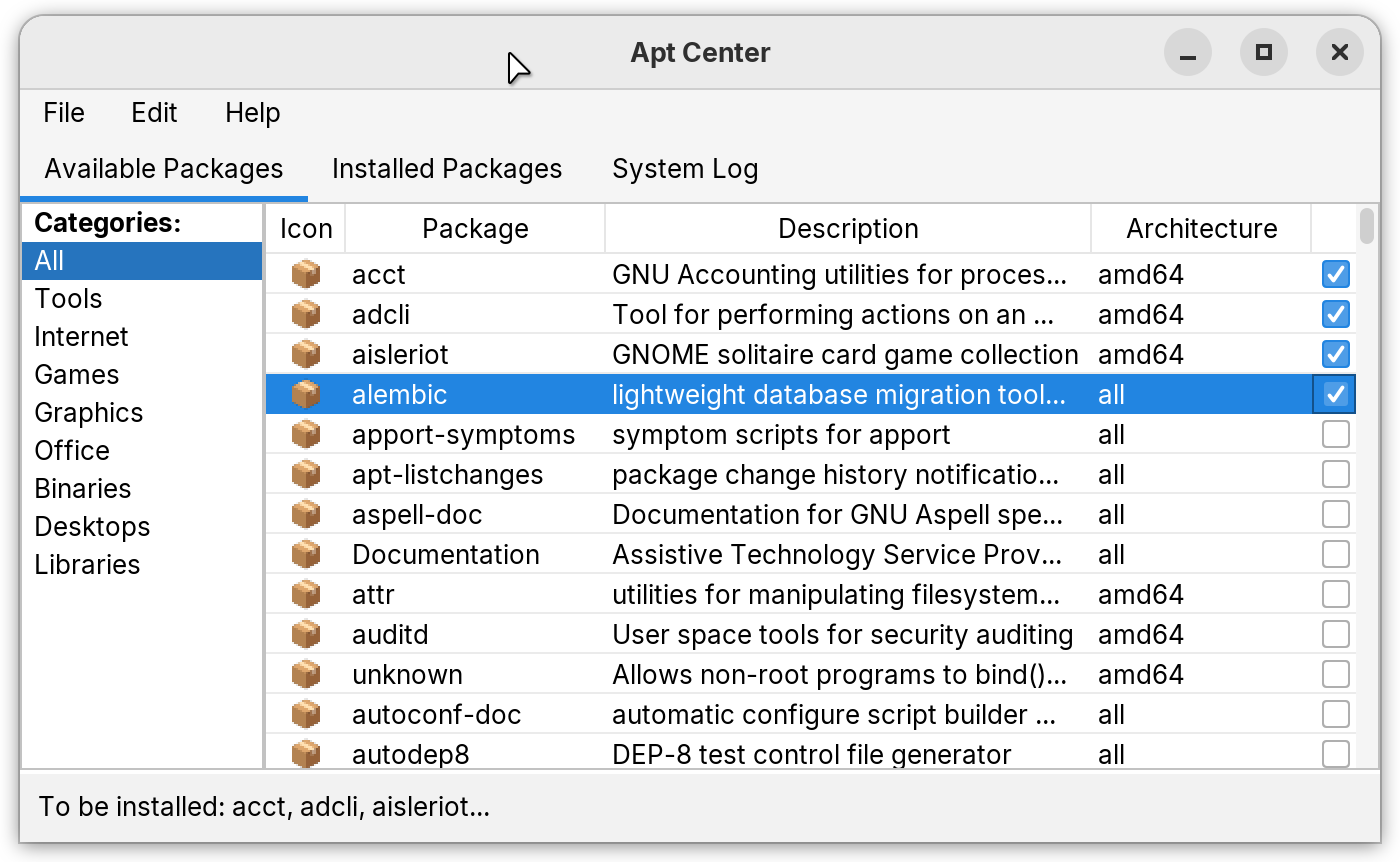
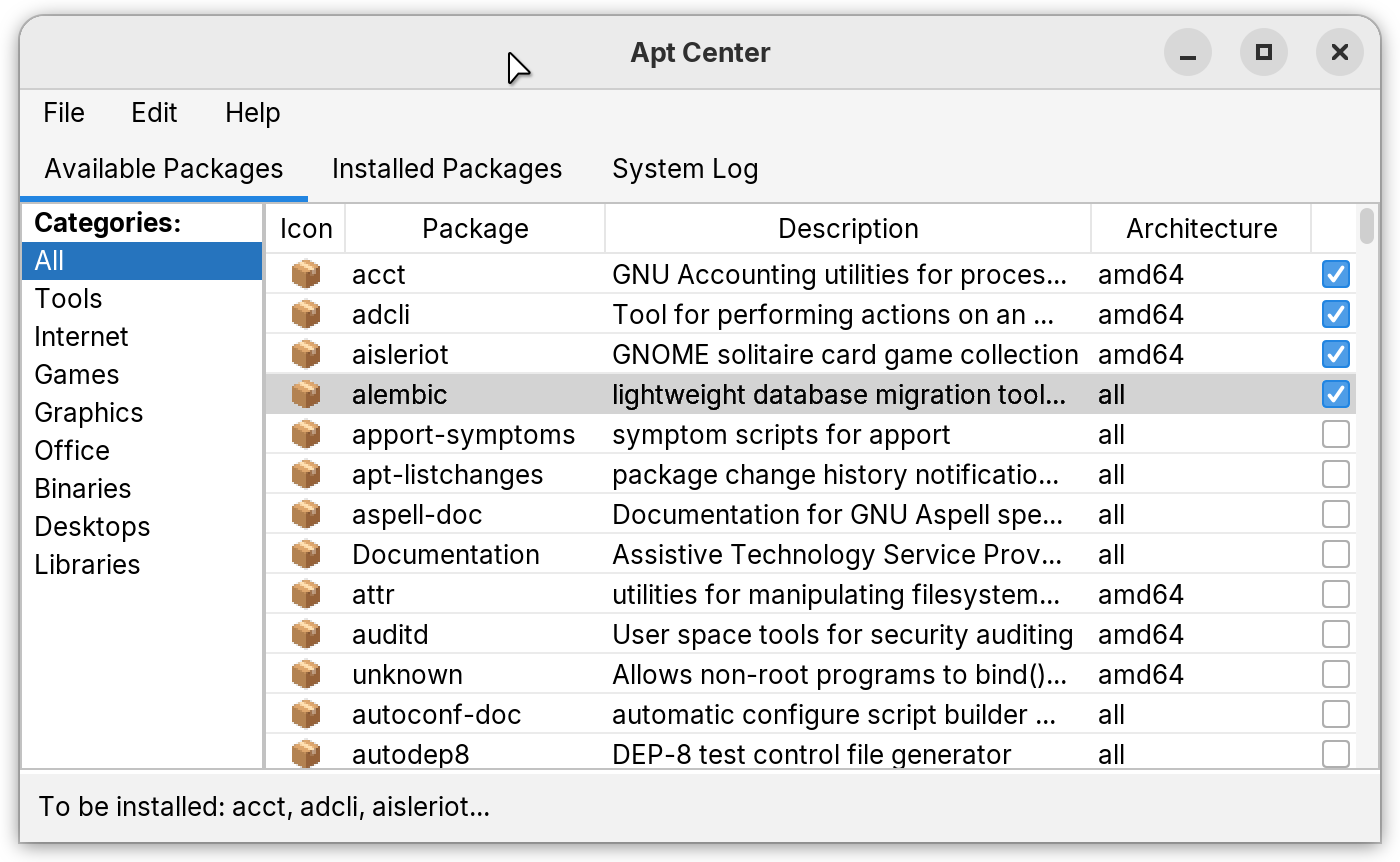
Reupload project

Changed region(s): [[0.1843, 0.4223, 0.9829, 0.4826]]

diff --git a/src/aptcenter/main.java b/src/aptcenter/main.java
@@ -47,6 +47,7 @@ import javax.swing.JMenuItem;
 import javax.swing.*;   // JMenu, JMenuItem, JMenuBar, JFrame, Icon, ImageIcon, etc.
 import java.awt.Graphics;      // Graphics, Component
 import java.awt.Component;
+import java.awt.KeyboardFocusManager;
 import java.awt.image.BufferedImage;
 import java.io.File;     // if you load icons from file
 import javax.imageio.ImageIO;
@@ -345,6 +346,7 @@ public class main extends javax.swing.JFrame {
         helpm.setEnabled(state);
         categories.setEnabled(state);
         categories2.setEnabled(state);
+        KeyboardFocusManager.getCurrentKeyboardFocusManager().clearGlobalFocusOwner();
     }
 
     void totalsize() throws IOException {
@@ -465,6 +467,8 @@ public class main extends javax.swing.JFrame {
     }
 
     void dpkg_list(String category) throws IOException {
+        
+        status.requestFocus();
         cancelListing = false;
 
         DateTimeFormatter dtf = DateTimeFormatter.ofPattern("dd/MM/yy HH:mm");
@@ -567,6 +571,7 @@ public class main extends javax.swing.JFrame {
                     jProgressBar1.setVisible(false);
                     jProgressBar1.revalidate();
                     jProgressBar1.repaint();
+                    
                     status.setText("Total pacakges: " + localpackages.getModel().getRowCount());
                 });
                 listingTimer.setRepeats(false);
@@ -580,6 +585,8 @@ public class main extends javax.swing.JFrame {
                 SwingUtilities.invokeLater(() -> {
                     log += "<font color='#006400'>Done listing packages...</font><br>";
                     logtext.setText("<html>" + log + "</html>");
+                    
+                    categories2.requestFocus();
                 });
             }
         });
@@ -693,6 +700,7 @@ public class main extends javax.swing.JFrame {
                 SwingUtilities.invokeLater(() -> {
                     log += "<font color='#006400'>Done listing packages...</font><br>";
                     logtext.setText("<html>" + log + "</html>");
+                    categories.requestFocus();
                 });
             }
         });
@@ -1136,71 +1144,74 @@ public class main extends javax.swing.JFrame {
         }).start();
 
     }
-private static void applyHoverInvert(JMenu menu) {
-    for (Component comp : menu.getMenuComponents()) {
-        if (comp instanceof JMenuItem) {
-            JMenuItem item = (JMenuItem) comp;
 
-            Icon icon = item.getIcon();
-            if (icon instanceof ImageIcon) {
-                ImageIcon imageIcon = (ImageIcon) icon;
+    private static void applyHoverInvert(JMenu menu) {
+        for (Component comp : menu.getMenuComponents()) {
+            if (comp instanceof JMenuItem) {
+                JMenuItem item = (JMenuItem) comp;
 
-                BufferedImage original = new BufferedImage(
-                    imageIcon.getIconWidth(),
-                    imageIcon.getIconHeight(),
-                    BufferedImage.TYPE_INT_ARGB
-                );
-                Graphics g = original.getGraphics();
-                imageIcon.paintIcon(null, g, 0, 0);
-                g.dispose();
+                Icon icon = item.getIcon();
+                if (icon instanceof ImageIcon) {
+                    ImageIcon imageIcon = (ImageIcon) icon;
 
-                BufferedImage inverted = new BufferedImage(original.getWidth(), original.getHeight(), BufferedImage.TYPE_INT_ARGB);
-                for (int y = 0; y < original.getHeight(); y++) {
-                    for (int x = 0; x < original.getWidth(); x++) {
-                        int rgba = original.getRGB(x, y);
-                        Color col = new Color(rgba, true);
-                        col = new Color(255 - col.getRed(), 255 - col.getGreen(), 255 - col.getBlue(), col.getAlpha());
-                        inverted.setRGB(x, y, col.getRGB());
-                    }
-                }
+                    BufferedImage original = new BufferedImage(
+                            imageIcon.getIconWidth(),
+                            imageIcon.getIconHeight(),
+                            BufferedImage.TYPE_INT_ARGB
+                    );
+                    Graphics g = original.getGraphics();
+                    imageIcon.paintIcon(null, g, 0, 0);
+                    g.dispose();
 
-                item.addMouseListener(new java.awt.event.MouseAdapter() {
-                    @Override
-                    public void mouseEntered(java.awt.event.MouseEvent e) {
-                        if(item.isEnabled()==true){
-                        item.setIcon(new ImageIcon(inverted));
+                    BufferedImage inverted = new BufferedImage(original.getWidth(), original.getHeight(), BufferedImage.TYPE_INT_ARGB);
+                    for (int y = 0; y < original.getHeight(); y++) {
+                        for (int x = 0; x < original.getWidth(); x++) {
+                            int rgba = original.getRGB(x, y);
+                            Color col = new Color(rgba, true);
+                            col = new Color(255 - col.getRed(), 255 - col.getGreen(), 255 - col.getBlue(), col.getAlpha());
+                            inverted.setRGB(x, y, col.getRGB());
                         }
                     }
-                    @Override
-                    public void mouseExited(java.awt.event.MouseEvent e) {
-                        item.setIcon(imageIcon);
-                    }
-                });
+
+                    item.addMouseListener(new java.awt.event.MouseAdapter() {
+                        @Override
+                        public void mouseEntered(java.awt.event.MouseEvent e) {
+                            if (item.isEnabled() == true) {
+                                item.setIcon(new ImageIcon(inverted));
+                            }
+                        }
+
+                        @Override
+                        public void mouseExited(java.awt.event.MouseEvent e) {
+                            item.setIcon(imageIcon);
+                        }
+                    });
+                }
+            } else if (comp instanceof JMenu) {
+                applyHoverInvert((JMenu) comp); // recursively handle submenus
             }
-        } else if (comp instanceof JMenu) {
-            applyHoverInvert((JMenu) comp); // recursively handle submenus
         }
     }
-}
-    public main(String[] args) throws Exception, IOException, ClassNotFoundException, InstantiationException, IllegalAccessException, UnsupportedLookAndFeelException, java.lang.Exception{
+
+    public main(String[] args) throws Exception, IOException, ClassNotFoundException, InstantiationException, IllegalAccessException, UnsupportedLookAndFeelException, java.lang.Exception {
         int mode;
-       
+
         setDefaultCloseOperation(JFrame.DO_NOTHING_ON_CLOSE);
         if (args.length > 0 && "-legacyui".equals(args[0])) {
             make_motif_light();
             disable_cde_border();
             mode = 1;
-        } else if(args.length > 0 && "-forcegtk".equals(args[0])){
-             UIManager.setLookAndFeel("com.sun.java.swing.plaf.gtk.GTKLookAndFeel");
-             fixgtkfont();
-             mode = 2;
+        } else if (args.length > 0 && "-forcegtk".equals(args[0])) {
+            UIManager.setLookAndFeel("com.sun.java.swing.plaf.gtk.GTKLookAndFeel");
+            fixgtkfont();
+            mode = 2;
         } else {
             mode = 3;
             FlatLightLaf.setGlobalExtraDefaults(Collections.singletonMap("@accentColor", "#2285E1"));
             UIManager.put("TabbedPane.contentAreaColor", new Color(245, 245, 245));
             UIManager.put("TabbedPane.underlineColor", new Color(0x2285E1));
             UIManager.put("TabbedPane.inactiveUnderlineColor", new Color(0x2285E1));
-            UIManager.put("Table.selectionBackground",new Color(0xD3D3D3));
+            UIManager.put("Table.selectionBackground", new Color(0xD3D3D3));
             UIManager.put("Table.selectionForeground", Color.BLACK);
             UIManager.put("Table.cellFocusColor", new Color(0xD3D3D3));
             UIManager.put("MenuBar.border", BorderFactory.createEmptyBorder());
@@ -1208,10 +1219,10 @@ private static void applyHoverInvert(JMenu menu) {
             UIManager.put("ScrollBar.width", 11);
             UIManager.put("CheckBox.icon.selectedBackground", new Color(0x4E9DE7));
             UIManager.put("CheckBox.icon.checkmarkColor", Color.WHITE);
-            UIManager.put("List.selectionInactiveBackground", new Color(38,116,190));
-            UIManager.put("List.selectionInactiveForeground", Color.WHITE);
             UIManager.put("TabbedPane.contentBorderInsets", new Insets(0, 0, 0, 0));
-           
+            UIManager.put("List.selectionInactiveBackground", new Color(211, 211, 211));
+            UIManager.put("List.selectionInactiveForeground", Color.BLACK);
+
             FlatLightLaf.setup();
             fixgtkfont();
         }
@@ -1238,10 +1249,10 @@ private static void applyHoverInvert(JMenu menu) {
 
         categories.setModel(m);
         Color hover = UIManager.getColor("MenuItem.selectionForeground");
-        if(mode ==3 || (hover != null && hover.getRed() > 240 && hover.getGreen() > 240 && hover.getBlue() > 240)){
-        applyHoverInvert(filem);
-        applyHoverInvert(editm);
-        applyHoverInvert(helpm);
+        if (mode == 3 || (hover != null && hover.getRed() > 240 && hover.getGreen() > 240 && hover.getBlue() > 240)) {
+            applyHoverInvert(filem);
+            applyHoverInvert(editm);
+            applyHoverInvert(helpm);
         }
         // onlinepackages.removeColumn(onlinepackages.getColumnModel().getColumn(5));
     }
@@ -1617,6 +1628,8 @@ private static void applyHoverInvert(JMenu menu) {
             public String getElementAt(int i) { return strings[i]; }
         });
         categories2.setSelectionMode(javax.swing.ListSelectionModel.SINGLE_SELECTION);
+        categories2.setInheritsPopupMenu(true);
+        categories2.setRequestFocusEnabled(false);
         categories2.setSelectedIndex(1);
         categories2.addMouseListener(new java.awt.event.MouseAdapter() {
             public void mouseClicked(java.awt.event.MouseEvent evt) {
@@ -1996,20 +2009,21 @@ private static void applyHoverInvert(JMenu menu) {
             if (currentThread != null) {
                 currentThread.interrupt();
             }
+            if (localpackages.getModel().getRowCount() == 0) {
+                try {
+                    dpkg_list(categories2.getSelectedValue());
+                } catch (IOException ex) {
+                    Logger.getLogger(main.class.getName()).log(Level.SEVERE, null, ex);
+                }
+            } else {
+                if (jTabbedPane1.getSelectedIndex() == 1) {
+                    status.setText("Total pacakges: " + localpackages.getModel().getRowCount());
+                }
+            }
         } else if (jTabbedPane1.getSelectedIndex() == 2) {
             status.setText("");
         }
-        if (localpackages.getModel().getRowCount() == 0) {
-            try {
-                dpkg_list(categories2.getSelectedValue());
-            } catch (IOException ex) {
-                Logger.getLogger(main.class.getName()).log(Level.SEVERE, null, ex);
-            }
-        } else {
-            if (jTabbedPane1.getSelectedIndex() == 1) {
-                status.setText("Total pacakges: " + localpackages.getModel().getRowCount());
-            }
-        }
+
 
     }//GEN-LAST:event_jTabbedPane1MouseClicked
 
@@ -2099,7 +2113,7 @@ private static void applyHoverInvert(JMenu menu) {
 
     private void jMenuItem2ActionPerformed(java.awt.event.ActionEvent evt) {//GEN-FIRST:event_jMenuItem2ActionPerformed
         JOptionPane.showMessageDialog(this, "Copyright © AndronikosGl 2026. All rights reserved.\n"
-                + "This project is source-available.\nModification and redistribution are not permitted. \nThis project includes a modified asset based on Google \nNoto Emoji (SIL Open Font License 1.1).", "Software lisence", JOptionPane.INFORMATION_MESSAGE);
+                + "This project is source-available.\nModification and redistribution are not permitted. \nThis project includes a modified asset based on Google \nNoto Emoji (SIL Open Font License 1.1).\nThis project uses the FlatLaf look and feel library.\nhttps://www.formdev.com/flatlaf/", "Software lisence", JOptionPane.INFORMATION_MESSAGE);
     }//GEN-LAST:event_jMenuItem2ActionPerformed
 
     /**
